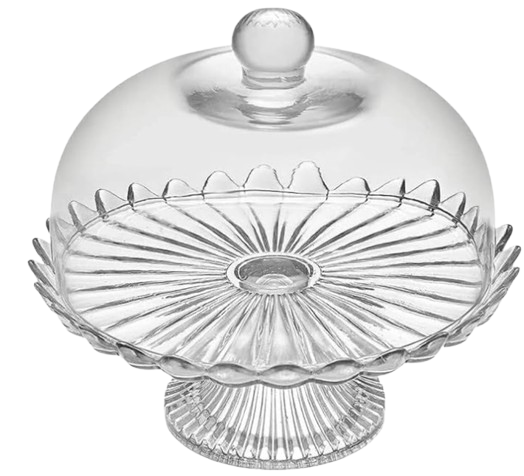
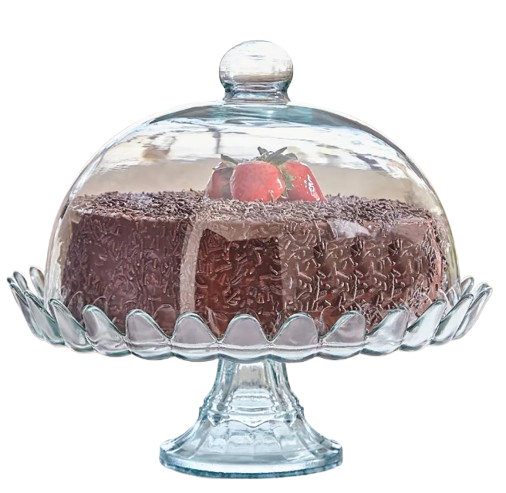
Novas fotos

diff --git a/comandos.js b/comandos.js
@@ -295,9 +295,9 @@ const produtos = [
         whatsapp: "https://wa.me/5534996920066/?text=Ol%C3%A1,%20Gostaria%20de%20reservar%20esse%20presente%20(Jogo%20De%Frigideiras).",
     },
     {
-        nome: "Espremedor de Suco",
+        nome: "Espremedor de Frutas",
         valor: "R$ 140,00",
-        imagem: "img/espremedorDeSuco.png",
+        imagem: "img/espremedorDeFrutas.png",
         pagamento: "https://checkout.nubank.com.br/DiNnlzaRiG92botq",
         whatsapp: "https://wa.me/5534996920066/?text=Ol%C3%A1,%20Gostaria%20de%20reservar%20esse%20presente%20(Espremedor%20De%Suco).",
     },

diff --git a/css/index.css b/css/index.css
@@ -663,7 +663,7 @@ body {
 }
 
 .imagem:hover {
-    transform: scale(1.2);
+    transform: scale(1.1);
     /* Aumenta a imagem em 10% */
 }
 
